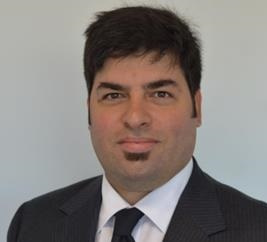
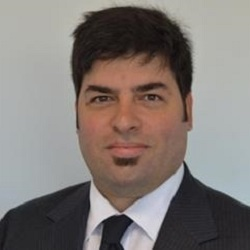
Update about page

diff --git a/about.html b/about.html
@@ -128,7 +128,7 @@
         </div>
         <div class="col-lg-4 mb-4">
           <div class="card h-100 text-center">
-            <img class="card-img-top" src="http://placehold.it/750x450" alt="">
+            <img class="card-img-top" src="img/vp.png" alt="">
             <div class="card-body">
                 <h4 class="card-title">V&iacute;ctor P&eacute;rez</h4>
               <h6 class="card-subtitle mb-2 text-muted">Team Member</h6>
